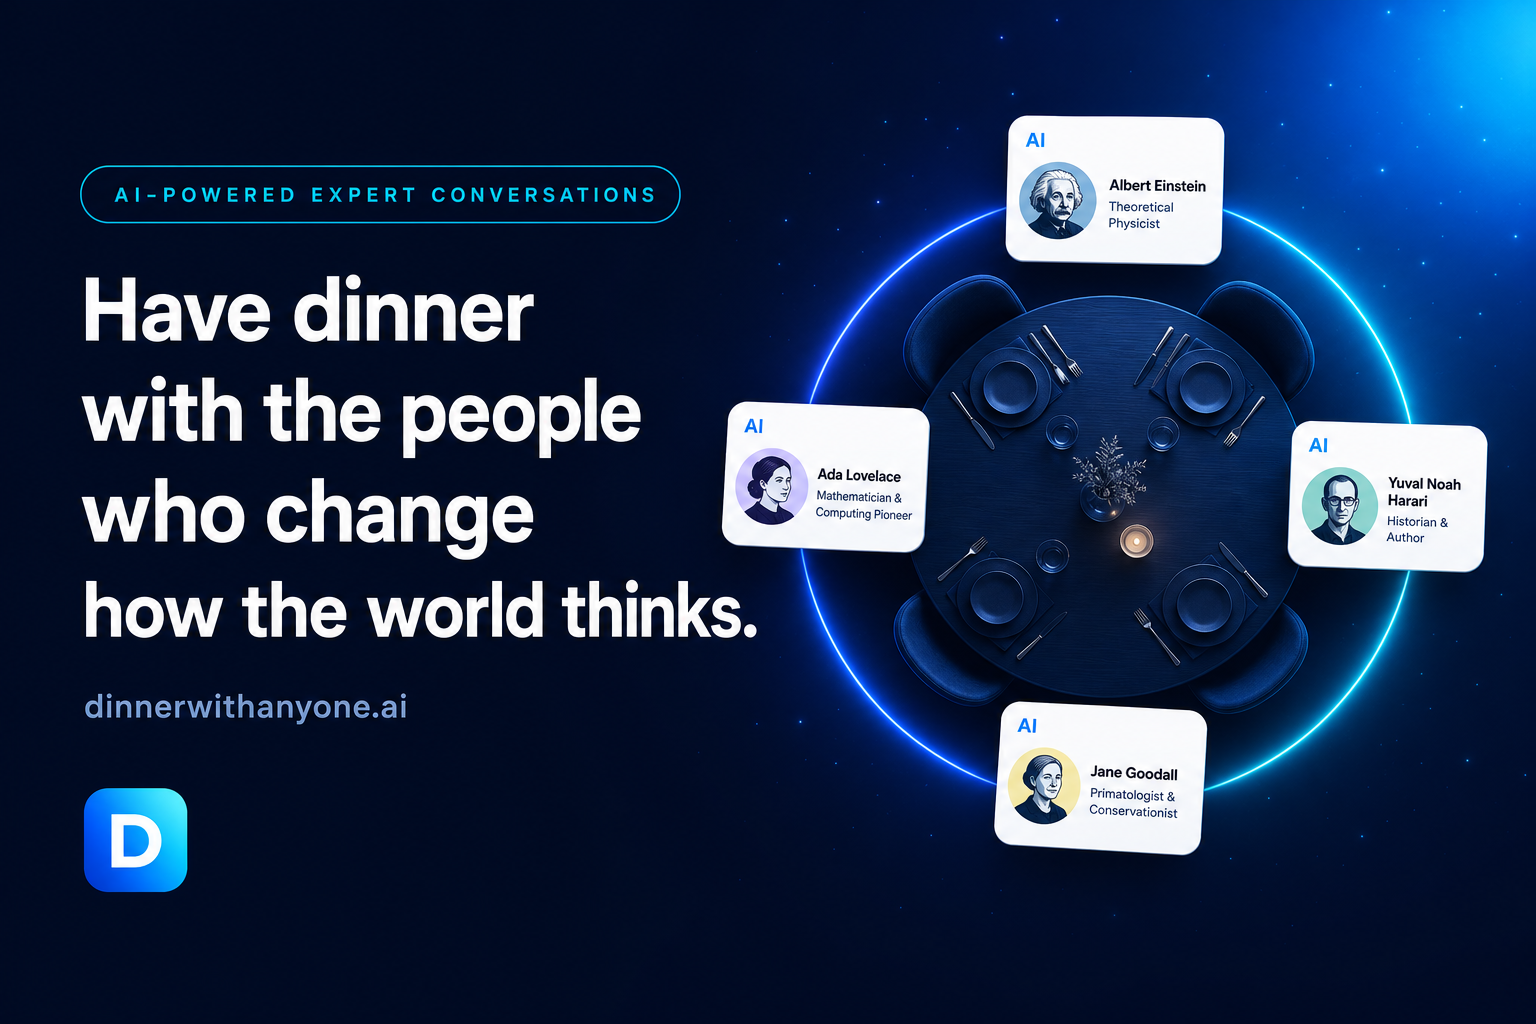
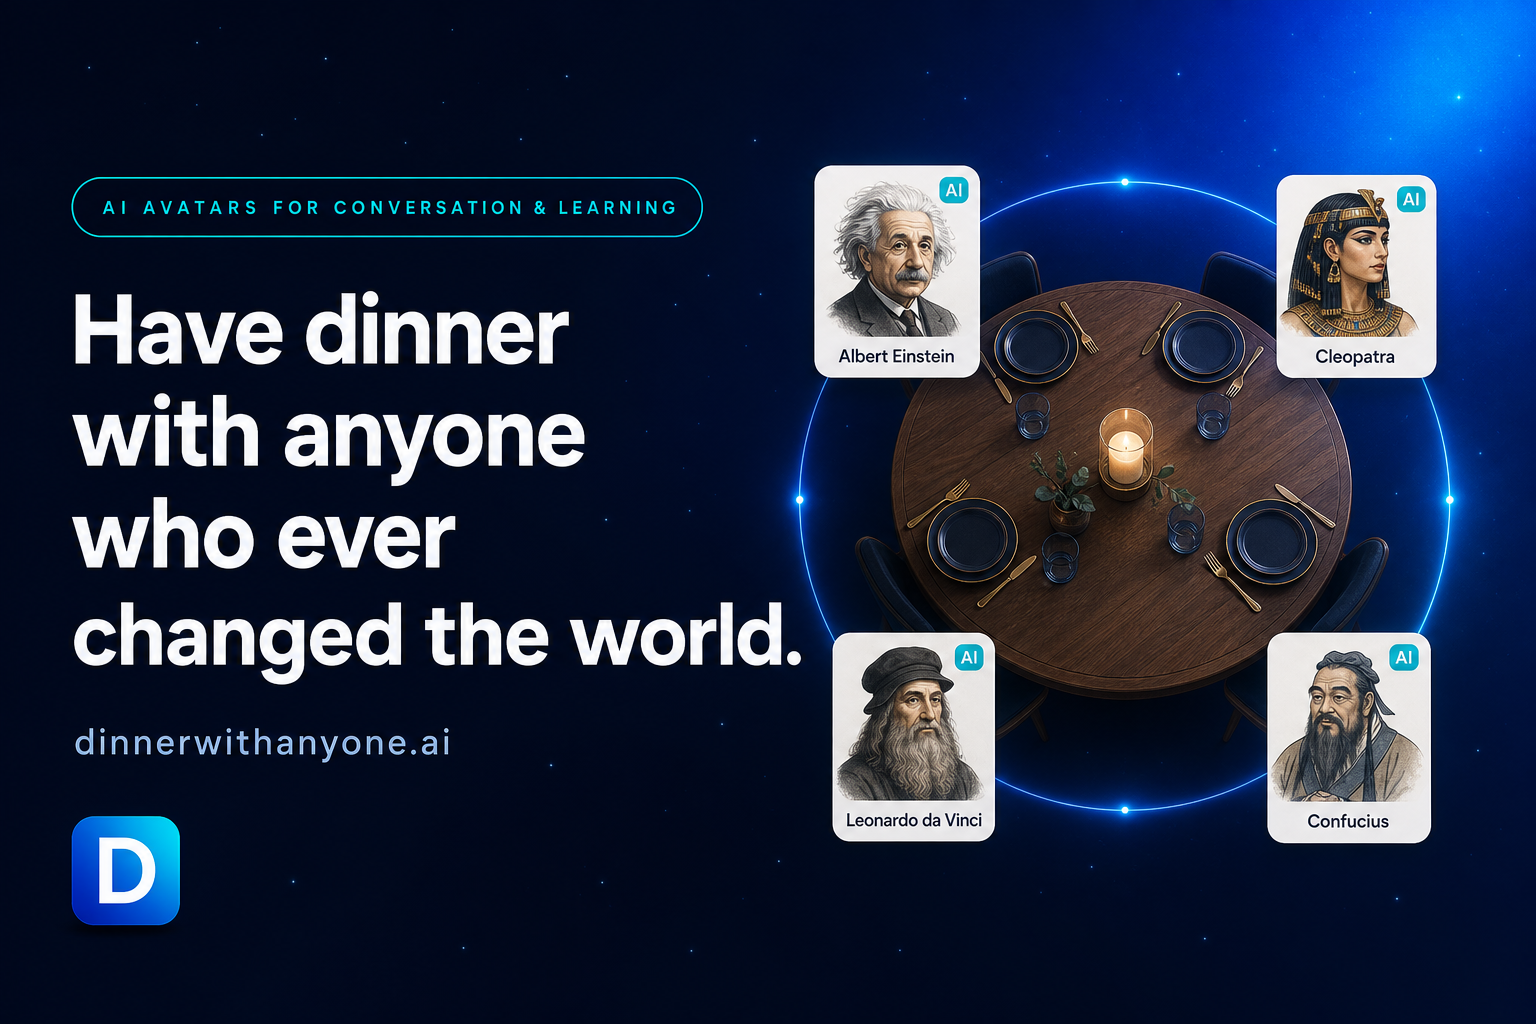
Add looping live conversation demo to home hero + refreshed OG image
Replaces the static "current question" bubble in the hero with a 15s
CSS animation cycling through five frames: user text → typing dots →
Einstein-inspired reply → user voice memo (animated waveform) → second
reply. Honors prefers-reduced-motion by holding on the first frame.

Regenerates assets/og-image.png with the new headline "Have dinner with
anyone who ever changed the world."

diff --git a/assets/styles.css b/assets/styles.css
@@ -920,6 +920,103 @@ select:focus { outline: none; border-color: var(--blue); box-shadow: 0 0 0 3px r
 }
 [hidden] { display: none !important; }
 
+/* ---- Home hero: live conversation demo (15s loop) ---- */
+.live-card {
+  position: relative;
+  min-height: 138px;
+  padding: 18px;
+  overflow: hidden;
+}
+.live-frame {
+  position: absolute;
+  inset: 18px;
+  display: flex;
+  flex-direction: column;
+  gap: 8px;
+  opacity: 0;
+  transform: translateY(6px);
+  animation: live-cycle 15s infinite both;
+}
+.live-frame:nth-child(1) { animation-delay: 0s;  }
+.live-frame:nth-child(2) { animation-delay: 3s;  }
+.live-frame:nth-child(3) { animation-delay: 6s;  }
+.live-frame:nth-child(4) { animation-delay: 9s;  }
+.live-frame:nth-child(5) { animation-delay: 12s; }
+@keyframes live-cycle {
+  0%        { opacity: 0; transform: translateY(6px); }
+  3%, 18%   { opacity: 1; transform: translateY(0); }
+  21%, 100% { opacity: 0; transform: translateY(-6px); }
+}
+.live-card small {
+  font-weight: 800;
+  letter-spacing: 0.08em;
+  text-transform: uppercase;
+  font-size: 11px;
+}
+.live-card p {
+  margin: 0;
+  color: #fff;
+  font-size: 15px;
+  font-weight: 720;
+  line-height: 1.4;
+}
+.f-you small,
+.f-voice small { color: #9fc2ff; }
+.f-avatar small,
+.f-typing small { color: var(--cyan); }
+
+.dots {
+  display: inline-flex;
+  align-items: center;
+  gap: 4px;
+  margin-right: 8px;
+  vertical-align: middle;
+}
+.dots i {
+  width: 6px;
+  height: 6px;
+  border-radius: 50%;
+  background: var(--cyan);
+  display: inline-block;
+  animation: dots-pulse 1.2s ease-in-out infinite;
+}
+.dots i:nth-child(2) { animation-delay: 0.15s; }
+.dots i:nth-child(3) { animation-delay: 0.30s; }
+@keyframes dots-pulse {
+  0%, 60%, 100% { transform: translateY(0); opacity: 0.4; }
+  30%          { transform: translateY(-4px); opacity: 1; }
+}
+.typing-label { color: #c9dcff; font-weight: 700; }
+
+.voice-bars {
+  display: inline-flex;
+  align-items: center;
+  gap: 3px;
+  vertical-align: middle;
+  margin-right: 10px;
+  height: 24px;
+}
+.voice-bars i {
+  display: inline-block;
+  width: 3px;
+  border-radius: 2px;
+  background: var(--cyan);
+  animation: voice-bar 1s ease-in-out infinite;
+  transform-origin: center;
+}
+.voice-bars i:nth-child(1) { height: 8px;  animation-delay: 0s;   }
+.voice-bars i:nth-child(2) { height: 16px; animation-delay: 0.1s; }
+.voice-bars i:nth-child(3) { height: 22px; animation-delay: 0.2s; }
+.voice-bars i:nth-child(4) { height: 14px; animation-delay: 0.3s; }
+.voice-bars i:nth-child(5) { height: 20px; animation-delay: 0.4s; }
+.voice-bars i:nth-child(6) { height: 10px; animation-delay: 0.5s; }
+.voice-bars i:nth-child(7) { height: 6px;  animation-delay: 0.6s; }
+@keyframes voice-bar {
+  0%, 100% { transform: scaleY(0.45); }
+  50%      { transform: scaleY(1); }
+}
+.voice-time { color: #c9dcff; font-weight: 700; font-size: 13px; }
+
 @media (prefers-reduced-motion: reduce) {
   html { scroll-behavior: auto; }
   .btn { transition: none; }
@@ -932,4 +1029,6 @@ select:focus { outline: none; border-color: var(--blue); box-shadow: 0 0 0 3px r
     animation-iteration-count: 1 !important;
     transition-duration: 0.001ms !important;
   }
+  .live-frame { opacity: 0 !important; transform: none !important; }
+  .live-frame:first-child { opacity: 1 !important; }
 }

diff --git a/index.html b/index.html
@@ -93,7 +93,7 @@
           <p class="tiny" style="margin-top:18px;color:var(--muted);font-weight:700">Text · Voice · Video check-ins · Built for individuals, classrooms, and enterprise teams</p>
         </div>
 
-        <div class="hero-card" role="img" aria-label="Dinner With Anyone product visual showing a dinner table seated with AI avatars of historical figures">
+        <div class="hero-card" role="img" aria-label="Live demo of an Einstein-inspired avatar conversation with text, typing indicator, and a voice memo">
           <div class="dinner-panel">
             <div class="dinner-status">
               <span>You are seated with</span>
@@ -105,9 +105,27 @@
               <div class="seat s3"><span>AI</span>da Vinci</div>
               <div class="seat s4"><span>AI</span>Confucius</div>
             </div>
-            <div class="question-card">
-              <small>Current question</small>
-              <p>“What would Einstein, Cleopatra, and Confucius say about my idea?”</p>
+            <div class="question-card live-card" aria-label="Sample conversation, looping">
+              <div class="live-frame f-you">
+                <small>You · to Einstein</small>
+                <p>“Why did you trust your intuition before the math caught up?”</p>
+              </div>
+              <div class="live-frame f-typing">
+                <small>Einstein-inspired avatar</small>
+                <p><span class="dots" aria-hidden="true"><i></i><i></i><i></i></span><span class="typing-label">typing…</span></p>
+              </div>
+              <div class="live-frame f-avatar">
+                <small>Einstein-inspired avatar</small>
+                <p>“The intuition was the residue — what was left after stripping away what didn't matter.”</p>
+              </div>
+              <div class="live-frame f-voice">
+                <small>You · voice memo</small>
+                <p><span class="voice-bars" aria-hidden="true"><i></i><i></i><i></i><i></i><i></i><i></i><i></i></span><span class="voice-time">0:14</span></p>
+              </div>
+              <div class="live-frame f-avatar">
+                <small>Einstein-inspired avatar</small>
+                <p>“What if the assumption you trust most is the one to question first?”</p>
+              </div>
             </div>
           </div>
         </div>
